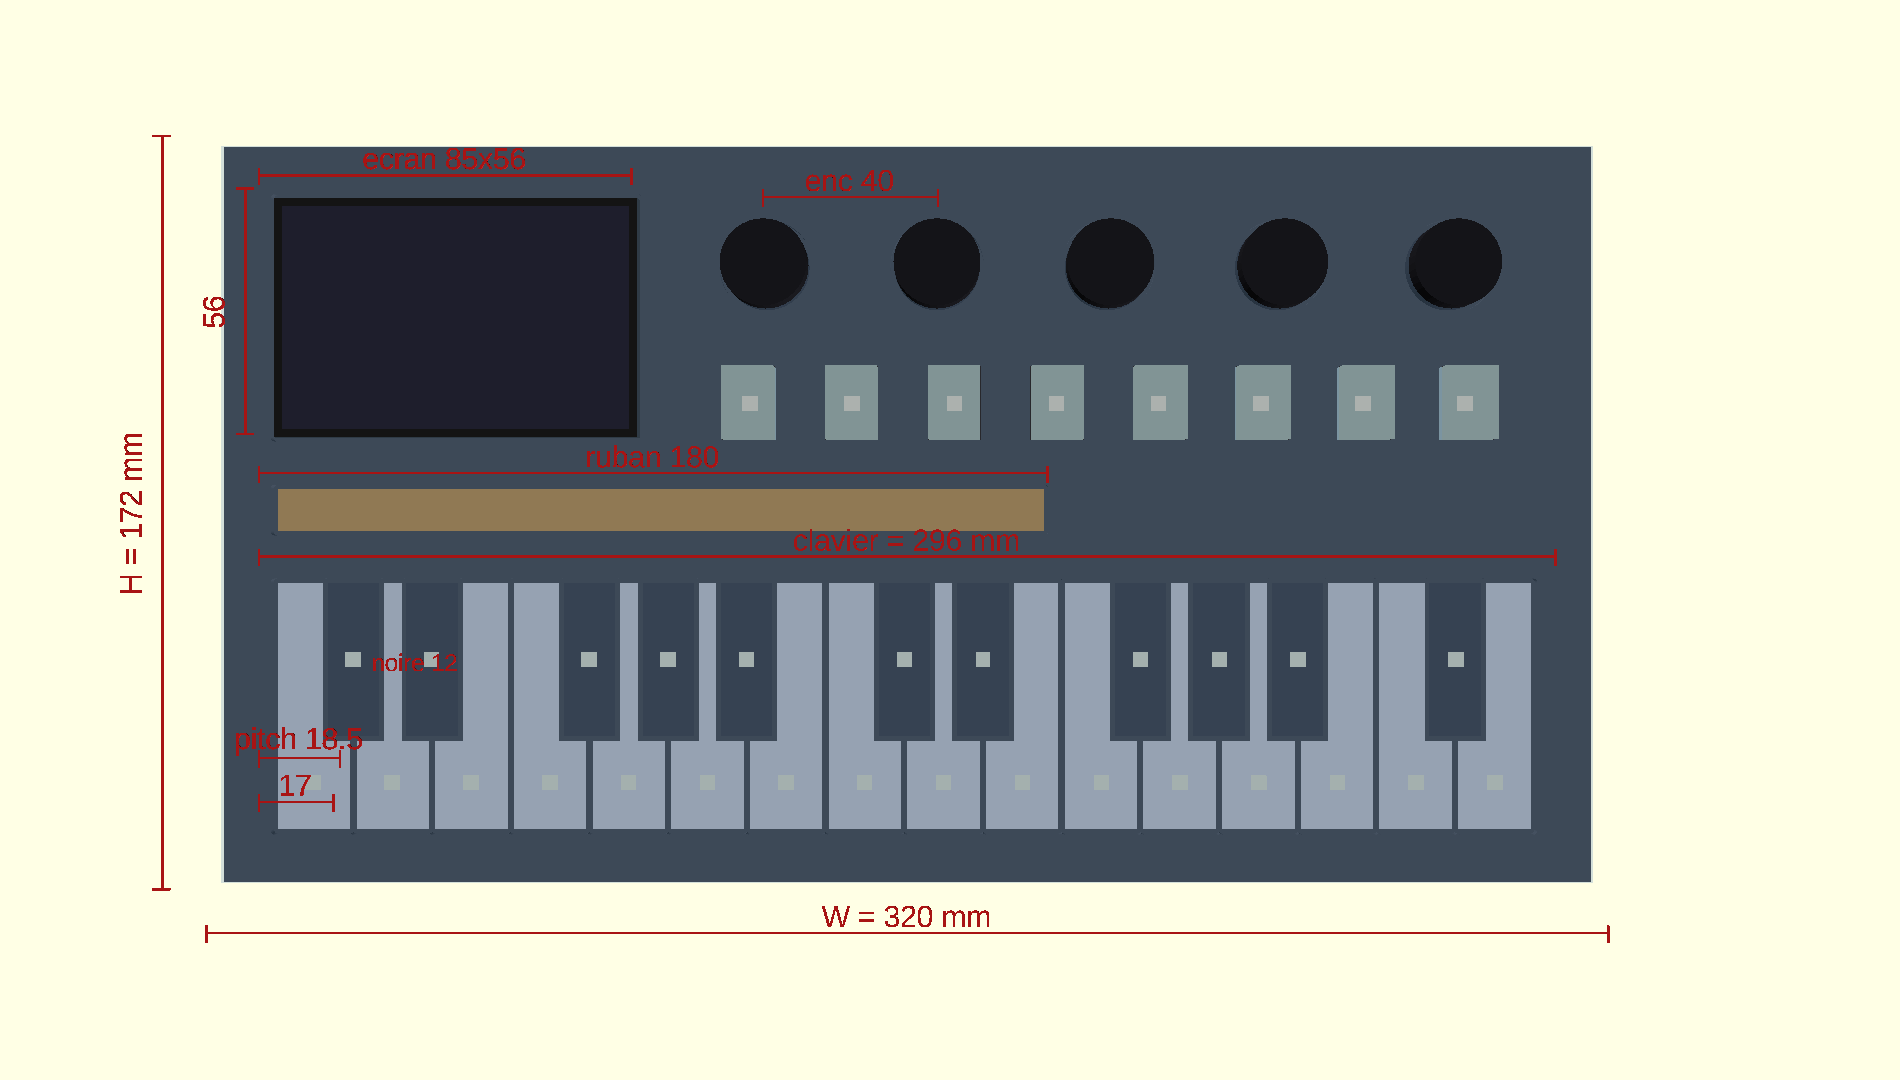
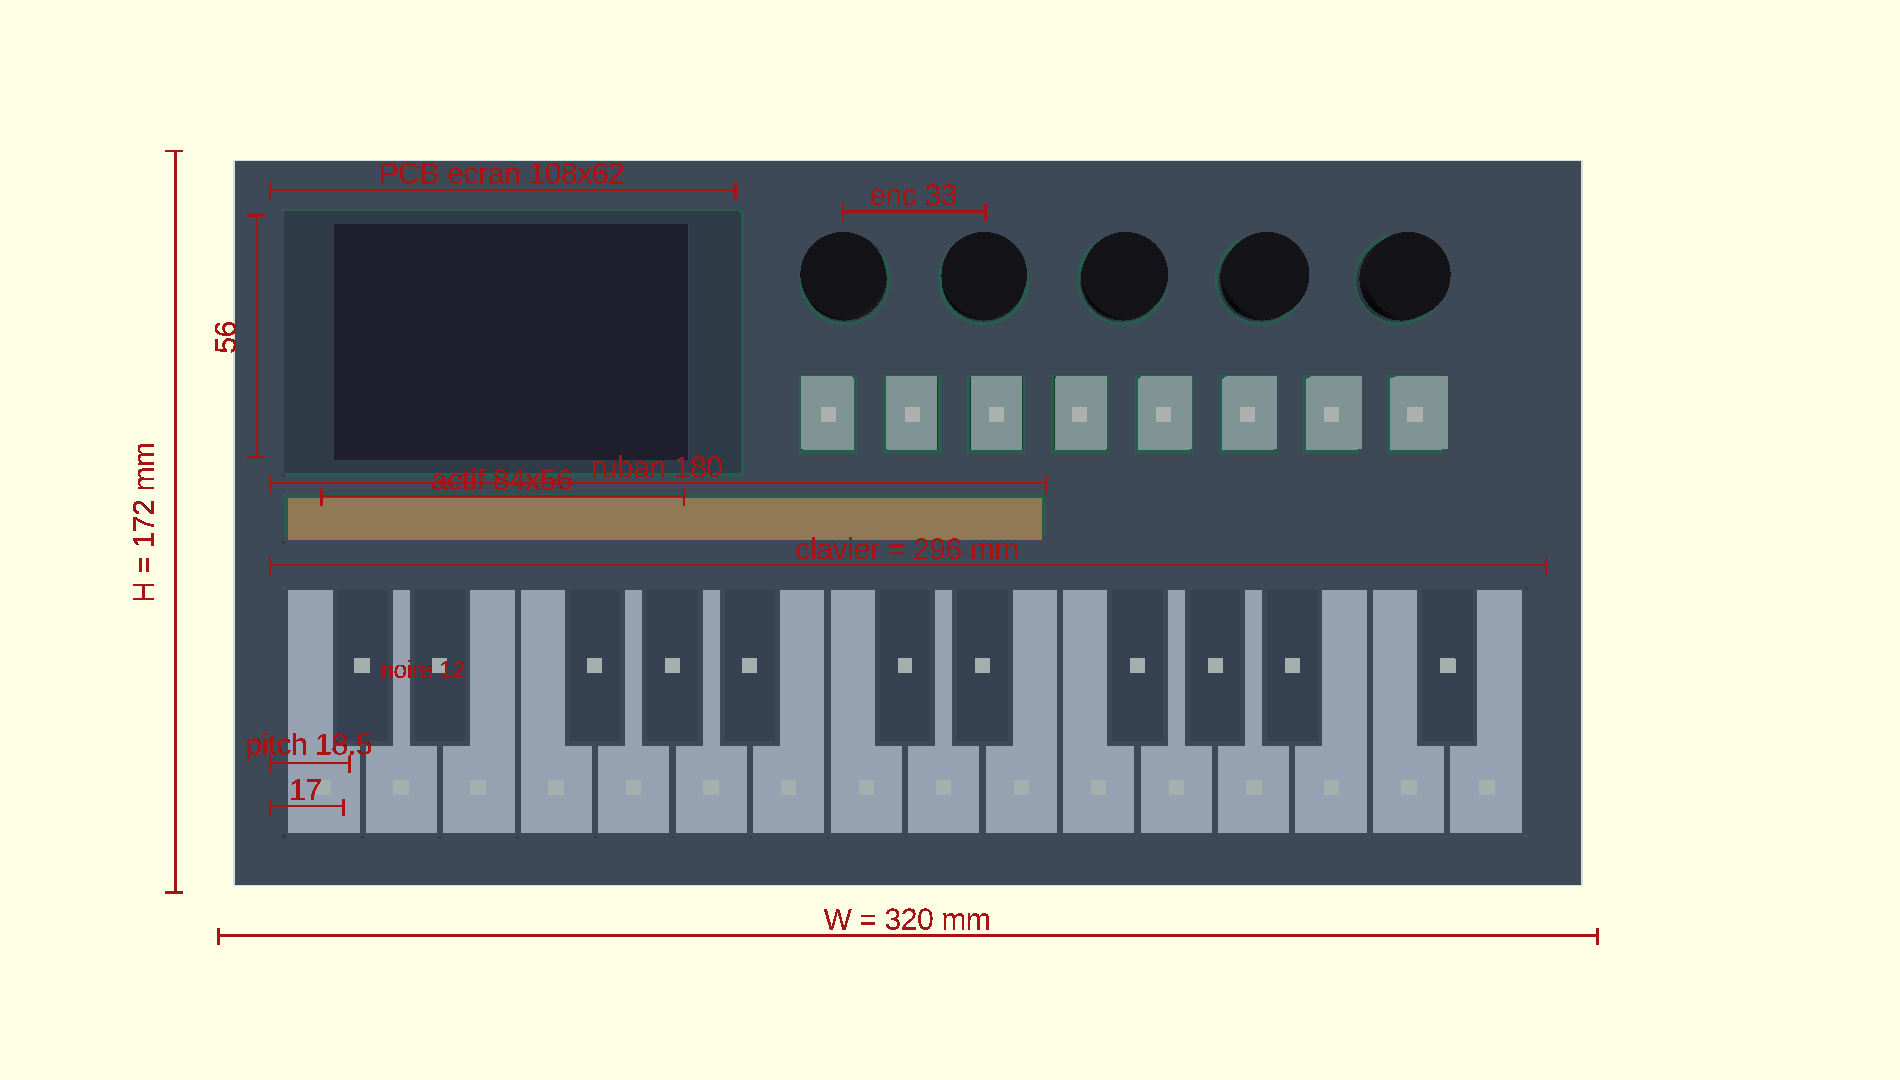
Méca : re-layout avec le vrai module écran (PCB 108×62 / actif 84×56)
Écran figé ILI9488 4,0". Modèle : footprint PCB 108×62 derrière + fenêtre
active 84×56 (cutout plexi) centrée. Contrôles reculés à droite du PCB,
enc pitch 40→33, boutons 24→20 → tout tient en W=320. Côtes PCB+actif.
BOM : écran ILI9488 figé, implication boîtier résolue.

Changed region(s): [[0.0621, 0.1222, 0.8384, 0.8861], [0.4658, 0.6722, 0.5279, 0.7028], [0.6521, 0.275, 0.6832, 0.3056]]

diff --git a/docs/BOM.md b/docs/BOM.md
@@ -53,8 +53,8 @@
   composant externe (R série éventuelle).
 
 ## 6. Écran — 4,0″ 480×320 SPI 🟡 + ⚠ impact boîtier
-- **Contrôleur** : 🔴 **ST7796 reco** (RGB565 16 bpp, ~40-80 MHz, rapide) **vs
-  ILI9488** (18 bpp, plus lent) — **même PCB, drop-in**. Module Elecrow 4,0″ ST7796.
+- **Contrôleur** : 🟢 **ILI9488** (choix utilisateur ; 18 bpp, OK en *partial
+  refresh*). ST7796 = alternative plus rapide (même PCB) si jamais dispo.
 - Cotes : **PCB 61,74 × 108,04 mm**, **actif 55,68 × 83,52 mm**, ép. 1,6 mm,
   verre +3-4 mm, **header 14 broches** sur petit bord, trous M3 aux coins (à mesurer).
 - Pilotage : **cerveau, SPI ~6 fils** (SCK MOSI CS DC RST + LED PWM), 3,3 V logique.
@@ -97,7 +97,7 @@
   cavité ~22 mm. Profondeur ~31 mm (à recaler sur EC11 ~31-32 mm + connecteurs).
 
 ## Décisions ouvertes (récap) 🔴
-1. Écran **ST7796 vs ILI9488** (même boîtier).
+1. ✅ Écran = **ILI9488 4,0″ 480×320** (ST7796 = alt. rapide possible).
 2. CV **0–5 V vs 0–10 V** (le 10 V impose un rail +12 V).
 3. PB86 **A1 vs A2** + pilotage switches+LED (expandeur/driver). ✅ **Diodes figées** :
    matrice + diode sur **SHIFT/PLAY/REC** seulement (voir §4).
@@ -105,6 +105,7 @@
 5. Encodeurs : **ratio détentes/PPR** (firmware).
 6. SK6812 **3535 vs MINI-E** (selon dessin de cellule).
 
-## Implications boîtier à traiter
-- **Écran PCB 108 × 62 mm** → re-layout du bandeau / élargir la façade.
+## Implications boîtier
+- ✅ **Écran PCB 108 × 62 mm** intégré au modèle (fenêtre active 84×56, contrôles
+  reculés à droite du PCB ; enc pitch 33 / boutons 20 → tient en W=320).
 - Profondeur cavité à recaler sur encodeurs (~32 mm) + jacks PJ-320A board-edge.
